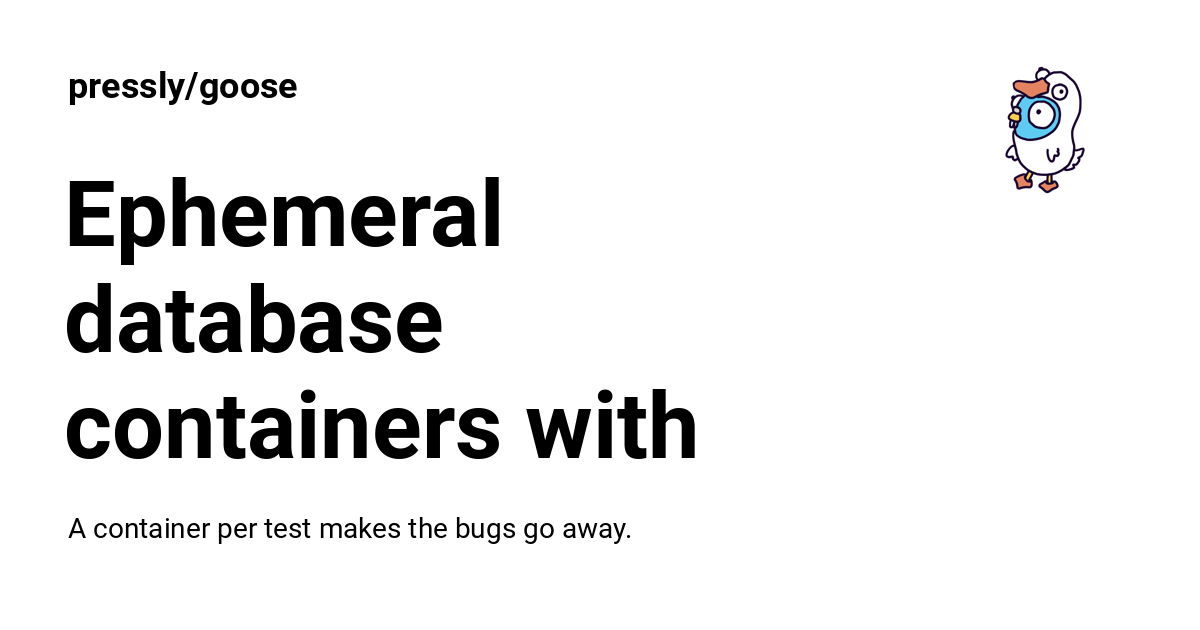
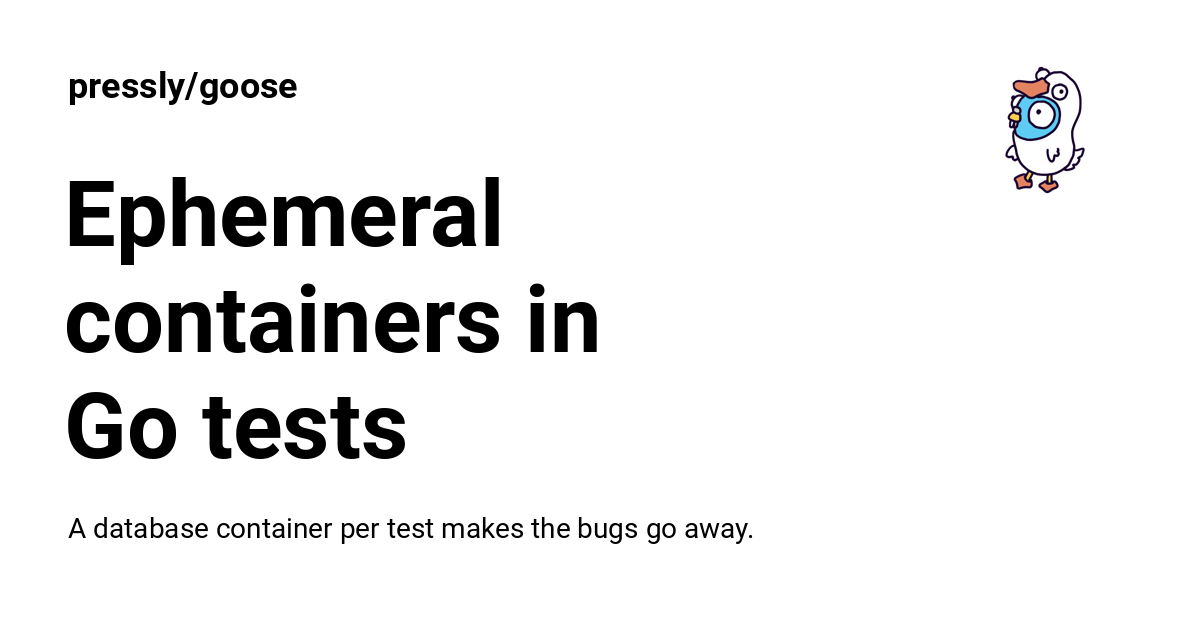
Deployed with MkDocs version: 1.2.2
squidfunk/mkdocs-material version: 7.3.3

Changed region(s): [[0.0617, 0.6032, 0.5858, 0.754], [0.0617, 0.4524, 0.5242, 0.573], [0.0925, 0.8143, 0.6167, 0.8746]]

diff --git a/blog/better-tests/index.html b/blog/better-tests/index.html
@@ -6,7 +6,7 @@
       <meta charset="utf-8">
       <meta name="viewport" content="width=device-width,initial-scale=1">
       
-        <meta name="description" content="A container per test makes the bugs go away.">
+        <meta name="description" content="A database container per test makes the bugs go away.">
       
       
       
@@ -21,7 +21,7 @@
     
     
       
-        <title>Ephemeral database containers with ory/dockertest - pressly/goose</title>
+        <title>Ephemeral containers in Go tests - pressly/goose</title>
       
     
     
@@ -61,9 +61,9 @@
       
         <meta  property="og:type"  content="website" >
       
-        <meta  property="og:title"  content="Ephemeral database containers with ory/dockertest - pressly/goose" >
+        <meta  property="og:title"  content="Ephemeral containers in Go tests - pressly/goose" >
       
-        <meta  property="og:description"  content="A container per test makes the bugs go away." >
+        <meta  property="og:description"  content="A database container per test makes the bugs go away." >
       
         <meta  property="og:image"  content="https://pressly.github.io/goose/assets/images/social/blog/better-tests.png" >
       
@@ -77,9 +77,9 @@
       
         <meta  name="twitter:card"  content="summary_large_image" >
       
-        <meta  name="twitter:title"  content="Ephemeral database containers with ory/dockertest - pressly/goose" >
+        <meta  name="twitter:title"  content="Ephemeral containers in Go tests - pressly/goose" >
       
-        <meta  name="twitter:description"  content="A container per test makes the bugs go away." >
+        <meta  name="twitter:description"  content="A database container per test makes the bugs go away." >
       
         <meta  name="twitter:image"  content="https://pressly.github.io/goose/assets/images/social/blog/better-tests.png" >
       
@@ -130,7 +130,7 @@
         <div class="md-header__topic" data-md-component="header-topic">
           <span class="md-ellipsis">
             
-              Ephemeral database containers with ory/dockertest
+              Ephemeral containers in Go tests
             
           </span>
         </div>
@@ -516,10 +516,38 @@
                 
                 <p>Managing state is hard. Managing database state is even harder. And coordinating state within a test suite is just always a bad time.</p>
 <p>But it doesn't have to be this way!</p>
-<p>There is a fantastic Go package called <a href="https://github.com/ory/dockertest">ory/dockertest</a> that allows you to spin up ephemeral docker containers. It'll work both locally (assuming you have Docker installed) and in your Continuous Integration (CI) pipelines.</p>
-<p>After applying thousands of migrations in production we know <code>goose</code> is production-ready and does the right thing. But we have plans to add more functionality to <code>goose</code>, and integration tests are a welcome addition to the <code>goose</code> test-suie.</p>
+<p>There is a fantastic Go package called <a href="https://github.com/ory/dockertest">ory/dockertest</a> that allows you to spin up ephemeral docker containers. It will work locally (assuming Docker is installed) and in your Continuous Integration (CI) pipelines.</p>
+<p>After applying thousands of migrations in production we know <code>goose</code> is production-ready and does the right thing. But we have plans to add more functionality to <code>goose</code>, and integration tests are a welcome addition to the <code>goose</code> test-suite.</p>
 <p>In a recent <code>goose</code> release (<a href="https://github.com/pressly/goose/pull/276">PR#276</a>) we added container-based database tests. These tests spin up a fresh database <em>per test</em>. Yes, that's right, we're talking dozens of containers.</p>
-<p>After each test is completed the container is cleaned up, something like this:</p>
+<p>Getting started is easy:</p>
+<div class="highlight"><pre><span></span><code><span class="nx">options</span> <span class="o">:=</span> <span class="o">&amp;</span><span class="nx">dockertest</span><span class="p">.</span><span class="nx">RunOptions</span><span class="p">{</span>
+    <span class="nx">Repository</span><span class="p">:</span> <span class="s">&quot;postgres&quot;</span><span class="p">,</span>
+    <span class="nx">Tag</span><span class="p">:</span>        <span class="s">&quot;14-alpine&quot;</span><span class="p">,</span>
+    <span class="nx">Env</span><span class="p">:</span> <span class="p">[]</span><span class="kt">string</span><span class="p">{</span>
+        <span class="s">&quot;POSTGRES_USER=postgres&quot;</span><span class="p">,</span>
+        <span class="s">&quot;POSTGRES_PASSWORD=password1&quot;</span><span class="p">,</span>
+        <span class="s">&quot;POSTGRES_DB=testdb&quot;</span><span class="p">,</span>
+        <span class="s">&quot;listen_addresses = &#39;*&#39;&quot;</span><span class="p">,</span>
+    <span class="p">},</span>
+    <span class="nx">Labels</span><span class="p">:</span>       <span class="kd">map</span><span class="p">[</span><span class="kt">string</span><span class="p">]</span><span class="kt">string</span><span class="p">{</span><span class="s">&quot;goose_test&quot;</span><span class="p">:</span> <span class="s">&quot;1&quot;</span><span class="p">},</span>
+<span class="p">}</span>
+<span class="nx">container</span><span class="p">,</span> <span class="nx">err</span> <span class="o">:=</span> <span class="nx">pool</span><span class="p">.</span><span class="nx">RunWithOptions</span><span class="p">(</span>
+    <span class="nx">options</span><span class="p">,</span>
+    <span class="kd">func</span><span class="p">(</span><span class="nx">config</span> <span class="o">*</span><span class="nx">docker</span><span class="p">.</span><span class="nx">HostConfig</span><span class="p">)</span> <span class="p">{</span>
+        <span class="c1">// Set AutoRemove to true so that stopped container goes away by itself.</span>
+        <span class="nx">config</span><span class="p">.</span><span class="nx">AutoRemove</span> <span class="p">=</span> <span class="kc">true</span>
+        <span class="nx">config</span><span class="p">.</span><span class="nx">RestartPolicy</span> <span class="p">=</span> <span class="nx">docker</span><span class="p">.</span><span class="nx">RestartPolicy</span><span class="p">{</span><span class="nx">Name</span><span class="p">:</span> <span class="s">&quot;no&quot;</span><span class="p">}</span>
+    <span class="p">},</span>
+<span class="p">)</span>
+
+<span class="c1">// Fetch port dynamically assigned to container, something like 55,245</span>
+<span class="nx">dynamicPort</span> <span class="o">:=</span> <span class="nx">container</span><span class="p">.</span><span class="nx">GetPort</span><span class="p">(</span><span class="s">&quot;5432/tcp&quot;</span><span class="p">)</span> 
+
+<span class="c1">// Get a *sql.DB connection, using the dynamic port assigned to container</span>
+<span class="c1">// postgresql://postgres:password1@localhost:{dynamicPort}/testdb?sslmode=disable</span>
+<span class="nx">db</span><span class="p">,</span> <span class="nx">err</span> <span class="o">:=</span> <span class="nx">sql</span><span class="p">.</span><span class="nx">Open</span><span class="p">(</span><span class="nx">dialectPostgres</span><span class="p">,</span> <span class="nx">psqlInfo</span><span class="p">)</span>
+</code></pre></div>
+<p>After each test has run the container is cleaned up, something like this:</p>
 <div class="highlight"><pre><span></span><code><span class="nx">t</span><span class="p">.</span><span class="nx">Cleanup</span><span class="p">(</span><span class="kd">func</span><span class="p">()</span> <span class="p">{</span>
     <span class="k">if</span> <span class="nx">err</span> <span class="o">:=</span> <span class="nx">pool</span><span class="p">.</span><span class="nx">Purge</span><span class="p">(</span><span class="nx">container</span><span class="p">);</span> <span class="nx">err</span> <span class="o">!=</span> <span class="kc">nil</span> <span class="p">{</span>
         <span class="nx">log</span><span class="p">.</span><span class="nx">Printf</span><span class="p">(</span><span class="s">&quot;failed to purge resource: %v&quot;</span><span class="p">,</span> <span class="nx">err</span><span class="p">)</span>
@@ -549,7 +577,6 @@
 | PASS   | 6.12s   | github.com/pressly/goose/v3/tests/e2e |
 +--------+---------+---------------------------------------+
 </code></pre></div>
-<p>So, next time you need a database in your containers</p>
                 
                   
                 
